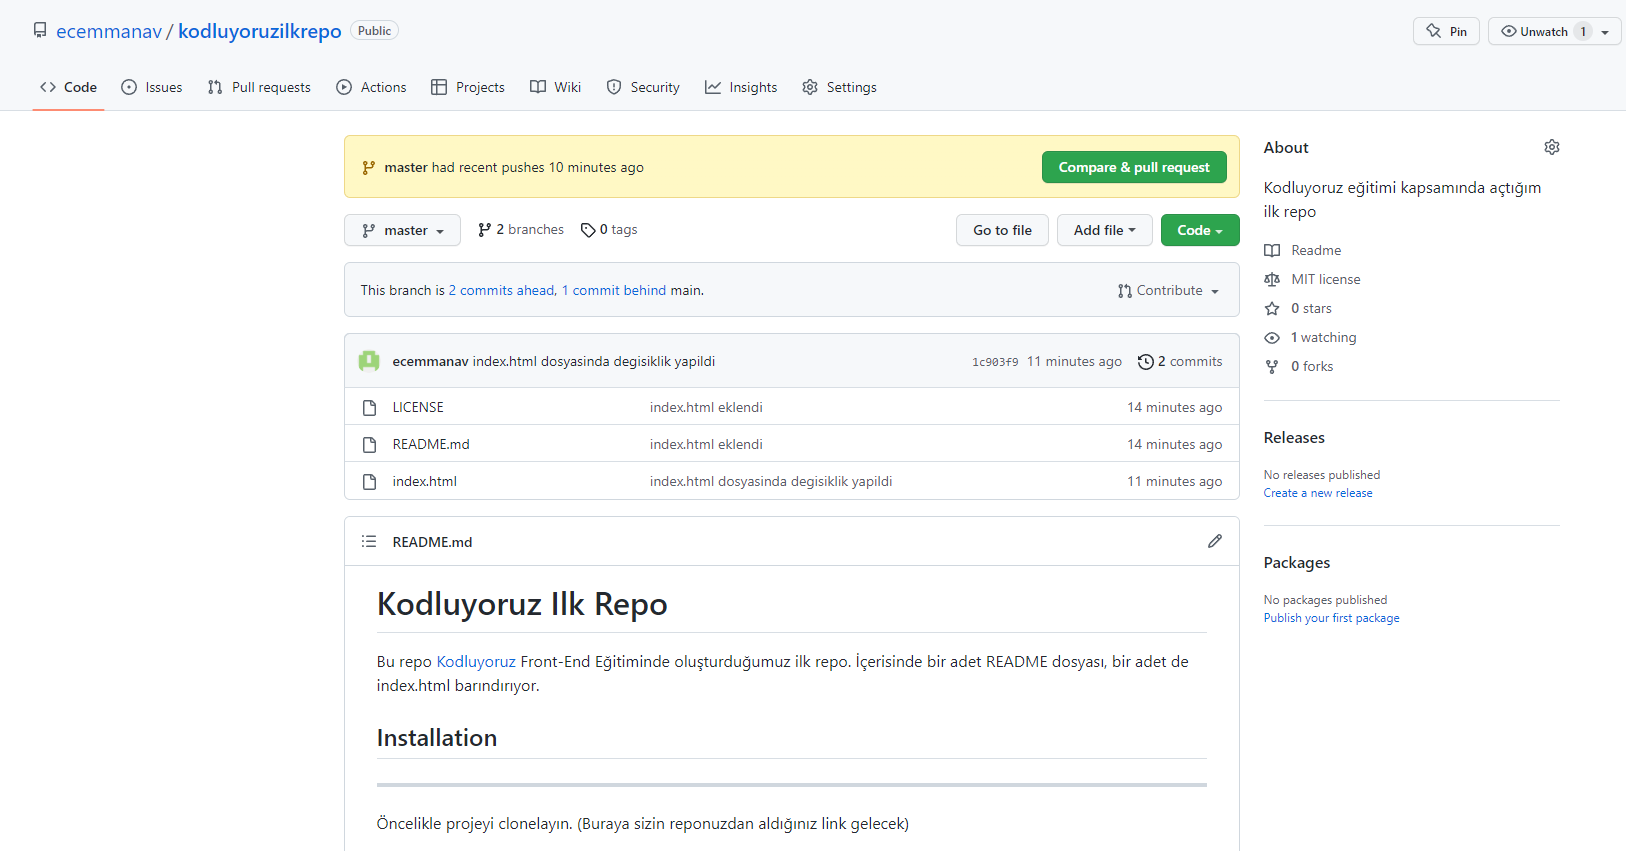
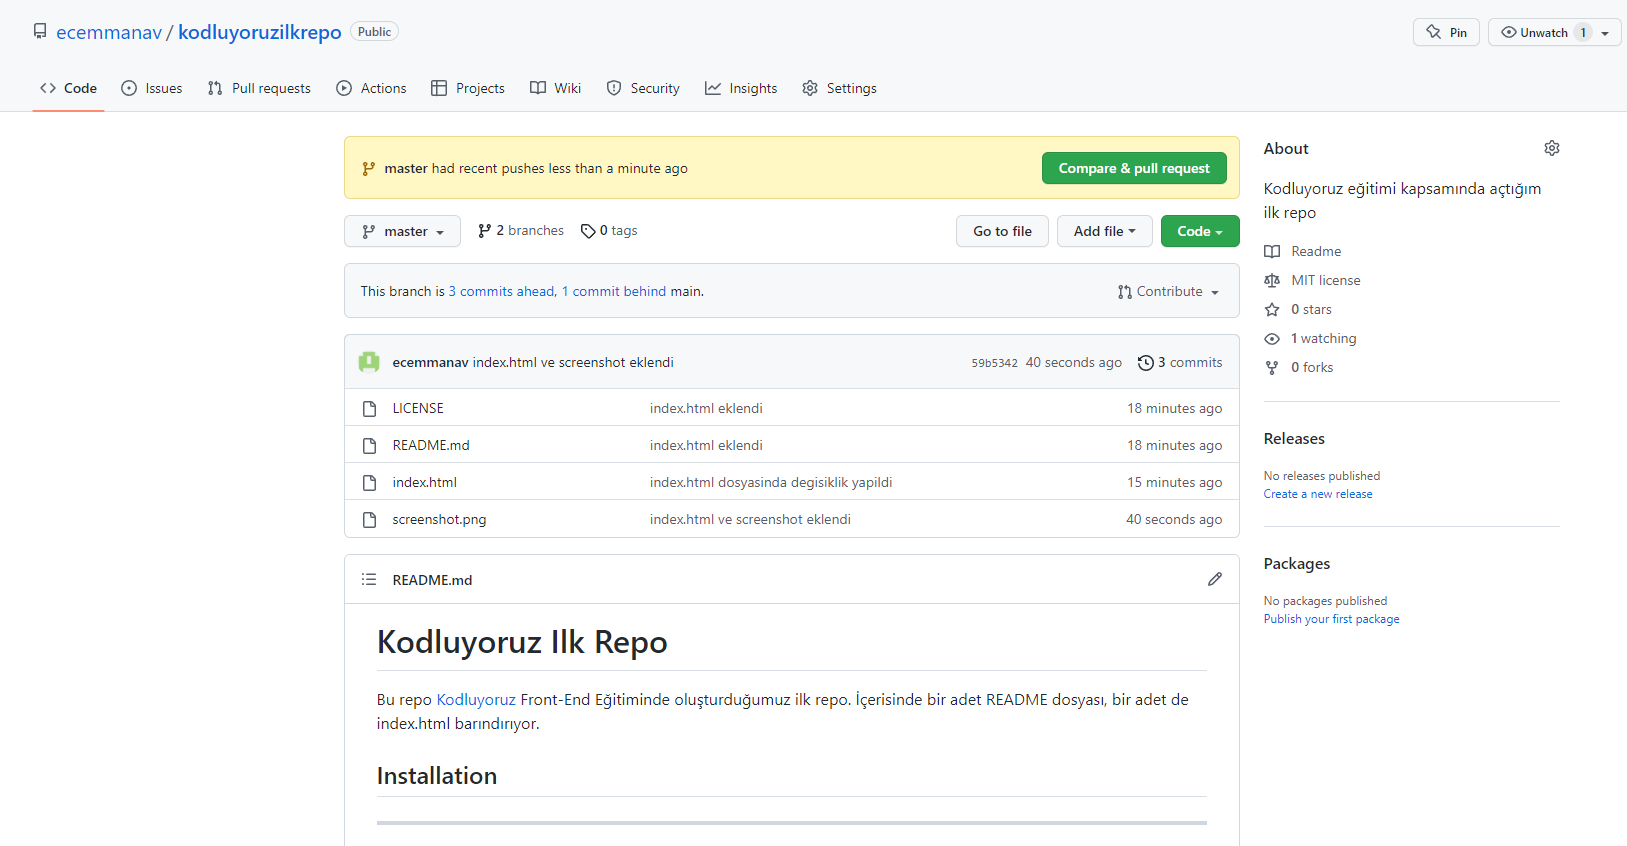
son degisiklikler yapildi

diff --git a/README.md b/README.md
@@ -1,6 +1,8 @@
 # Kodluyoruz Ilk Repo
 Bu repo [Kodluyoruz](https://www.kodluyoruz.org/) Front-End Eğitiminde oluşturduğumuz ilk repo. İçerisinde bir adet README dosyası, bir adet de index.html barındırıyor.
 
+![Proje Gorseli](https://i.hizliresim.com/qy39m9k.png)
+
 ## Installation
 ------------------------
 Öncelikle projeyi clonelayın. (Buraya sizin reponuzdan aldığınız link gelecek)
